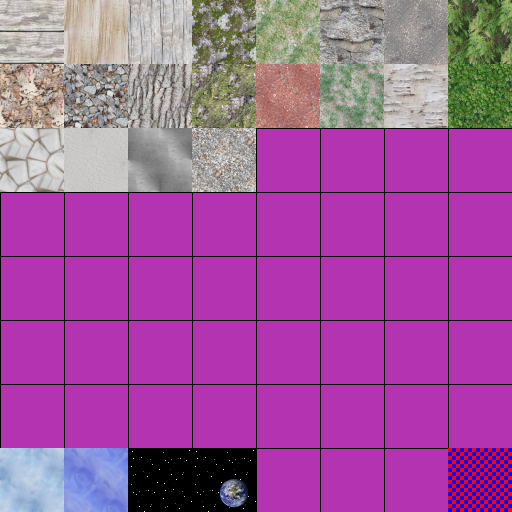
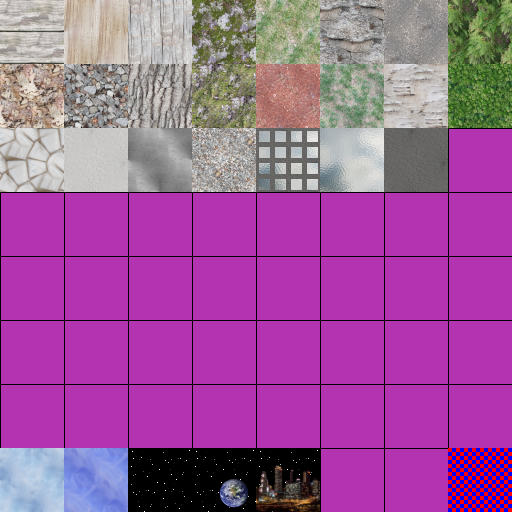
Add city map

Changed region(s): [[0.5, 0.25, 0.875, 0.375], [0.5, 0.875, 0.625, 1.0]]

diff --git a/main.py b/main.py
@@ -19,13 +19,18 @@ def scene_collision(camera_box: Box, collisions: list[Box]):
 
 
 def main():
+    MOVE_SPEED = 0.0011
+    JUMP_HEIGHT = 0.04
+    GRAVITY = 0.0003
+    FRICTION = 0.96
+
     WINDOW_SIZE = (1080, 720)
     window.init(WINDOW_SIZE, "Game")
     render.init(WINDOW_SIZE)
     events = event.Events()
 
-    test_scene = obj.parse('assets/models/moon.obj')
-    skybox = obj.parse('assets/models/moon_skybox.obj')
+    test_scene = obj.parse('assets/models/city.obj')
+    skybox = obj.parse('assets/models/city_skybox.obj')
     skybox.scale *= 500
     skybox.shade = False
 
@@ -61,6 +66,7 @@ def main():
     velocity = Vector(0, 0, 0)
 
     while True:
+
         event.get_events(events)
         render.render(scene, camera)
 
@@ -87,10 +93,10 @@ def main():
             acceleration.x -= rotation.y
             acceleration.z += rotation.x
         if acceleration.length() != 0:
-            acceleration = acceleration.normalize() * 0.0011
+            acceleration = acceleration.normalize() * MOVE_SPEED
         velocity += acceleration
 
-        velocity.y -= 0.0003
+        velocity.y -= GRAVITY
 
         camera_box.position.x += velocity.x
         if scene_collision(camera_box, collisions):
@@ -101,14 +107,14 @@ def main():
             camera_box.position.y -= velocity.y
             velocity.y = 0
             if events.key_down(pg.K_SPACE):
-                velocity.y = 0.03
+                velocity.y = JUMP_HEIGHT
         camera_box.position.z += velocity.z
         if scene_collision(camera_box, collisions):
             camera_box.position.z -= velocity.z
             velocity.z = 0
 
-        velocity.x *= 0.96
-        velocity.z *= 0.96
+        velocity.x *= FRICTION
+        velocity.z *= FRICTION
 
         skybox.position = camera_box.position * 1.0
 
